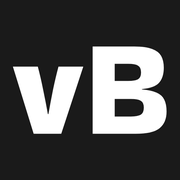
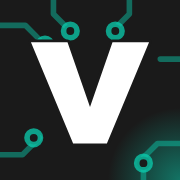
Content update.

diff --git a/src/lib/components/Header.svelte b/src/lib/components/Header.svelte
@@ -25,8 +25,8 @@
 
 <header class="site-header" class:overlay class:at-top={atTop}>
 	<div class="container bar">
-		<a class="brand" href="/" aria-label="{site.shortName} — home">
-			<span class="brand__v">v</span>Bordea
+		<a class="brand" href="/" aria-label="{site.name} — home">
+			<img src="/favicon.svg" alt="" width="42" height="42" />
 		</a>
 
 		<button
@@ -42,7 +42,15 @@
 
 		<!-- Clicking any link inside the menu closes it (hash links on the same page do not always trigger navigation). -->
 		<!-- svelte-ignore a11y_click_events_have_key_events, a11y_no_noninteractive_element_interactions -->
-		<nav id="site-nav" class="nav" class:open aria-label="Main" onclick={(e) => { if ((e.target as HTMLElement).closest('a')) open = false; }}>
+		<nav
+			id="site-nav"
+			class="nav"
+			class:open
+			aria-label="Main"
+			onclick={(e) => {
+				if ((e.target as HTMLElement).closest('a')) open = false;
+			}}
+		>
 			<ul>
 				{#each nav as item (item.href)}
 					<li><a href={item.href}>{item.label}</a></li>
@@ -93,14 +101,13 @@
 		flex-wrap: wrap;
 	}
 	.brand {
-		font-size: 1.6rem;
-		font-weight: 800;
-		letter-spacing: -0.02em;
-		color: var(--ink);
-		text-decoration: none;
+		display: inline-flex;
+		align-items: center;
 	}
-	.brand__v {
-		color: var(--accent);
+	.brand img {
+		display: block;
+		width: 2.6rem;
+		height: 2.6rem;
 	}
 
 	.nav {

diff --git a/src/lib/components/ContactForm.svelte b/src/lib/components/ContactForm.svelte
@@ -35,7 +35,8 @@
 		message: (v) => {
 			if (!v) return 'Please enter a message.';
 			if (v.length < 10) return 'Your message must contain at least 10 characters.';
-			if (v.length > MESSAGE_MAX) return `Your message is too long (max ${MESSAGE_MAX} characters).`;
+			if (v.length > MESSAGE_MAX)
+				return `Your message is too long (max ${MESSAGE_MAX} characters).`;
 			return '';
 		}
 	};
@@ -169,10 +170,14 @@
 				bind:value={values.message}
 				onblur={() => validate('message')}
 				aria-invalid={errors.message ? 'true' : undefined}
-				aria-describedby={errors.message ? 'contact-message-error contact-message-hint' : 'contact-message-hint'}></textarea>
+				aria-describedby={errors.message
+					? 'contact-message-error contact-message-hint'
+					: 'contact-message-hint'}></textarea>
 			<p class="hint" id="contact-message-hint">
 				Max {MESSAGE_MAX} characters <span aria-hidden="true">·</span>
-				<span class:over={values.message.length >= MESSAGE_MAX}>{values.message.length} / {MESSAGE_MAX}</span>
+				<span class:over={values.message.length >= MESSAGE_MAX}
+					>{values.message.length} / {MESSAGE_MAX}</span
+				>
 			</p>
 			{#if errors.message}<p class="error" id="contact-message-error">{errors.message}</p>{/if}
 		</div>

diff --git a/src/routes/privacy/+page.svelte b/src/routes/privacy/+page.svelte
@@ -30,11 +30,11 @@
 			<li>
 				<strong>Anonymous visit statistics.</strong>
 				{#if site.analytics.websiteId}
-					This site uses Umami Cloud to count visits, pages viewed, referring sites, approximate country,
-					browser and device type, and clicks on a few buttons (for example "Download CV" or opening a
-					project). It sets no cookies and builds no profile of you; according to Umami, it does not store
-					full IP addresses or use cookies or local storage. It is switched off if your browser sends a
-					"Do Not Track" signal.
+					This site uses Umami Cloud to count visits, pages viewed, referring sites, approximate
+					country, browser and device type, and clicks on a few buttons (for example "Download CV"
+					or opening a project). It sets no cookies and builds no profile of you; according to
+					Umami, it does not store full IP addresses or use cookies or local storage. It is switched
+					off if your browser sends a "Do Not Track" signal.
 				{:else}
 					None. The site currently runs no analytics.
 				{/if}

diff --git a/src/routes/+page.svelte b/src/routes/+page.svelte
@@ -10,8 +10,7 @@
 	import { site } from '$lib/site';
 
 	// Structured data: only facts that are already stated on the site.
-	const jsonLd = {
-		'@context': 'https://schema.org',
+	const person = {
 		'@type': 'Person',
 		name: site.name,
 		url: site.url,
@@ -22,9 +21,23 @@
 		knowsAbout: ['Web development', 'Cybersecurity', 'Svelte', 'TypeScript'],
 		sameAs: site.socials.map((s) => s.href)
 	};
+
+	// Tells Google the site's name (shown above the result) in addition to the person data.
+	const jsonLd = {
+		'@context': 'https://schema.org',
+		'@graph': [
+			person,
+			{
+				'@type': 'WebSite',
+				name: site.name,
+				alternateName: ['Valentin Bordea', site.shortName],
+				url: `${site.url}/`
+			}
+		]
+	};
 </script>
 
-<Seo title="{site.name} — {site.jobTitle}" description={site.description} path="/" {jsonLd} />
+<Seo title={site.homeTitle} description={site.description} path="/" {jsonLd} />
 
 <Hero />
 <About />

diff --git a/src/lib/components/home/About.svelte b/src/lib/components/home/About.svelte
@@ -1,6 +1,7 @@
 <script lang="ts">
 	import SectionHeading from '$lib/components/SectionHeading.svelte';
 	import KaraokeText from '$lib/components/KaraokeText.svelte';
+	import { site } from '$lib/site';
 
 	const aboutText =
 		"I'm a software developer with a background in computer science and cybersecurity. I enjoy building web applications that are not just fast and user-friendly, but secure under the hood. For me, good software is about finding the right balance between clean code and a safe, reliable infrastructure.";
@@ -20,7 +21,7 @@
 				decoding="async"
 			/>
 			<div>
-				<h3>Software Developer &amp; Cybersecurity Specialist</h3>
+				<h3>{site.name}</h3>
 				<KaraokeText text={aboutText} />
 			</div>
 		</div>

diff --git a/src/lib/site.ts b/src/lib/site.ts
@@ -4,8 +4,10 @@ export const site = {
 	name: 'Liviu-Valentin Bordea',
 	shortName: 'vBordea',
 	jobTitle: 'Software Developer & Cybersecurity Specialist',
+	// Home page <title> and meta description (keep title under ~60 and description under ~125 characters).
+	homeTitle: 'Liviu-Valentin Bordea | Portfolio',
 	description:
-		'Portfolio of Liviu-Valentin Bordea, a software developer and cybersecurity specialist building fast, accessible and secure web applications.',
+		"Welcome to my portfolio. Explore the projects I've built, what I can do, and how to get in touch.",
 	email: 'contact@valentinbordea.com',
 	cvPath: '/assets/docs/cv.pdf',
 	defaultImage: '/assets/img/seo-social-banner.jpg',

diff --git a/src/lib/components/home/Hero.svelte b/src/lib/components/home/Hero.svelte
@@ -29,8 +29,12 @@
 				background in computer science and cybersecurity.
 			</p>
 			<div class="hero__actions">
-				<a class="btn btn--accent" href="#contact" data-umami-event="hero-get-in-touch">Get in touch</a>
-				<a class="btn btn--ghost" href="#portfolio" data-umami-event="hero-view-work">View my work</a>
+				<a class="btn btn--accent" href="#contact" data-umami-event="hero-get-in-touch"
+					>Get in touch</a
+				>
+				<a class="btn btn--ghost" href="#portfolio" data-umami-event="hero-view-work"
+					>View my work</a
+				>
 			</div>
 		</div>
 	</div>

diff --git a/src/routes/thank-you/+page.svelte b/src/routes/thank-you/+page.svelte
@@ -12,7 +12,9 @@
 
 <div class="container container--narrow page">
 	<h1 class="page-title">Thank you!</h1>
-	<p class="page-lead">Your message was sent. I'll get back to you as soon as I can, usually within a day or two.</p>
+	<p class="page-lead">
+		Your message was sent. I'll get back to you as soon as I can, usually within a day or two.
+	</p>
 	<p class="back"><a class="btn" href="/">Back to the homepage</a></p>
 </div>
 
